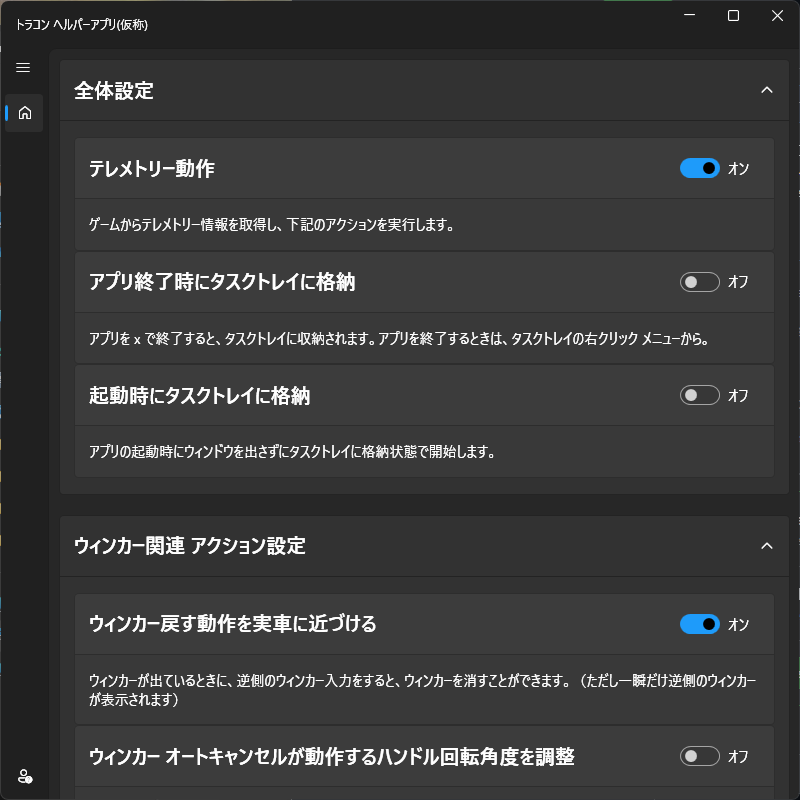
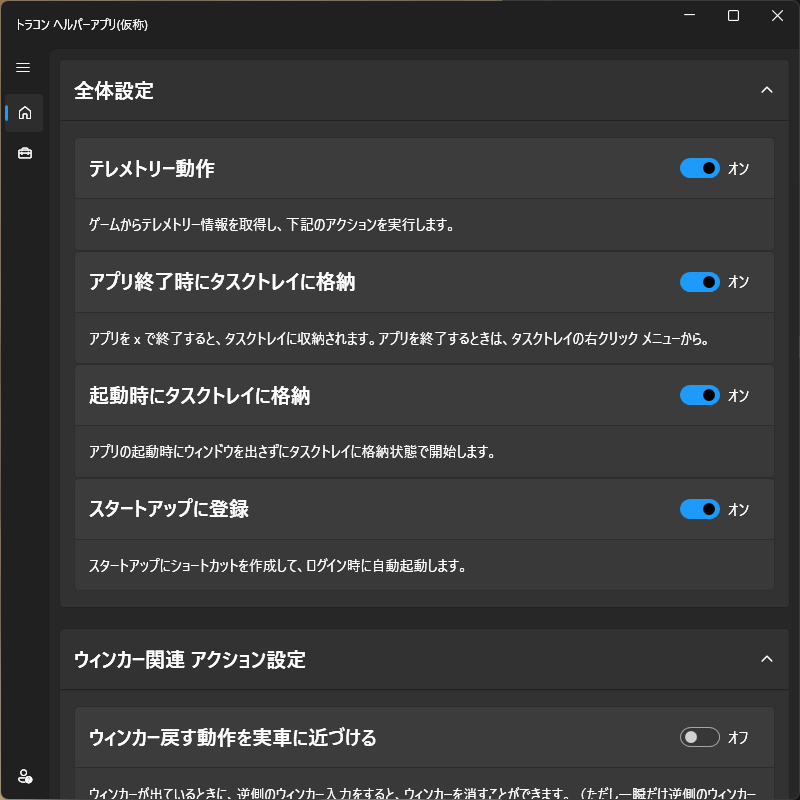
update readme.md

diff --git a/README.md b/README.md
@@ -22,7 +22,7 @@ ETS2/ATS の [Telemetry SDK](https://modding.scssoft.com/wiki/Documentation/Engi
     * テレメトリーから情報を取っているので、どうしてもウィンカーが表示されてからになってしまいます。
     * この制限事項が微妙・・・という方でトラコンをお持ちの方は、下記の DirectInput 版をご利用下さい。
 
-* __(トラコン専用) DirectInput を使ってウィンカーが出ているときに逆側のウィンカーを出すと、消えるアクション<sup>new! v1.8</sup>__
+* (トラコン専用) DirectInput を使ってウィンカーが出ているときに逆側のウィンカーを出すと、消えるアクション
   * 制限事項を撤廃するために DirectInput API を使って、トラコンのウィンカー入力を行います。
   * DirectInput は対象のコントローラーを探す必要があるのですが、トラコン本体（ハンドルの方）を一本釣りでひっかけていますので、トラコン専用です。
   * 利用するための条件は２つ
@@ -110,12 +110,17 @@ ETS2/ATS の [Telemetry SDK](https://modding.scssoft.com/wiki/Documentation/Engi
 * このアプリケーションを再度起動したときに、画面を表示させずにタスクトレイに常駐します。
 * 画面を表示したいときはタスクトレイのアイコンをダブルクリック、または右クリック → 表示 を選択します。
 
+#### スタートアップに登録
+* Windows ユーザーのログイン時に自動的にこのアプリを起動するように設定できます。
+  * オン にすると、`C:\Users\[USERNAME]\AppData\Roaming\Microsoft\Windows\Start Menu\Programs\Startup` にショートカットを作成します。
+  * オフ にすると、作成したショートカット ファイルを削除します
+
 
 ### ウィンカー関連 アクション設定
 #### ウィンカー戻す動作を実車に近づける
 * ウィンカーが出ているときに、逆側のウィンカー入力をすると、ウィンカーを消すことができます。（ただし一瞬だけ逆側のウィンカーが表示されます）
 
-#### __(トラコン専用) DirectInput を使ってウィンカー戻す動作を実車に近づける<sup>new! v1.8</sup>__
+#### (トラコン専用) DirectInput を使ってウィンカー戻す動作を実車に近づける
 * ウィンカーが出ているときに、逆側のウィンカー入力をすると、ウィンカーを消すことができます。
   * 制限事項を撤廃するために DirectInput API を使って、トラコンのウィンカー入力を行います。
   * [HORI Force Feedback Truck Control System for Windows® PC（通称「トラコン」）](https://hori.jp/products/hpc/hpc-044/) 専用です。
@@ -170,7 +175,7 @@ ETS2/ATS の [Telemetry SDK](https://modding.scssoft.com/wiki/Documentation/Engi
 * 給油時に Enter や OK ボタンを一度押して、給油を開始してしまえば、ボタンを離しても満タンまで給油が続きます（代わりにボタンを押し続けます）
 * 給油するとき、満タンになるまでボタンを押し続けるのが面倒な方向けです。
 
-## PowerToys <sup>new! v1.9</sup>
+## PowerToys
 ETS2/ATS のいろんなフォルダ・ファイルを簡単に閲覧・起動できるページを用意しました。
 
 ![](images/appPowerToyPageImage.png)
